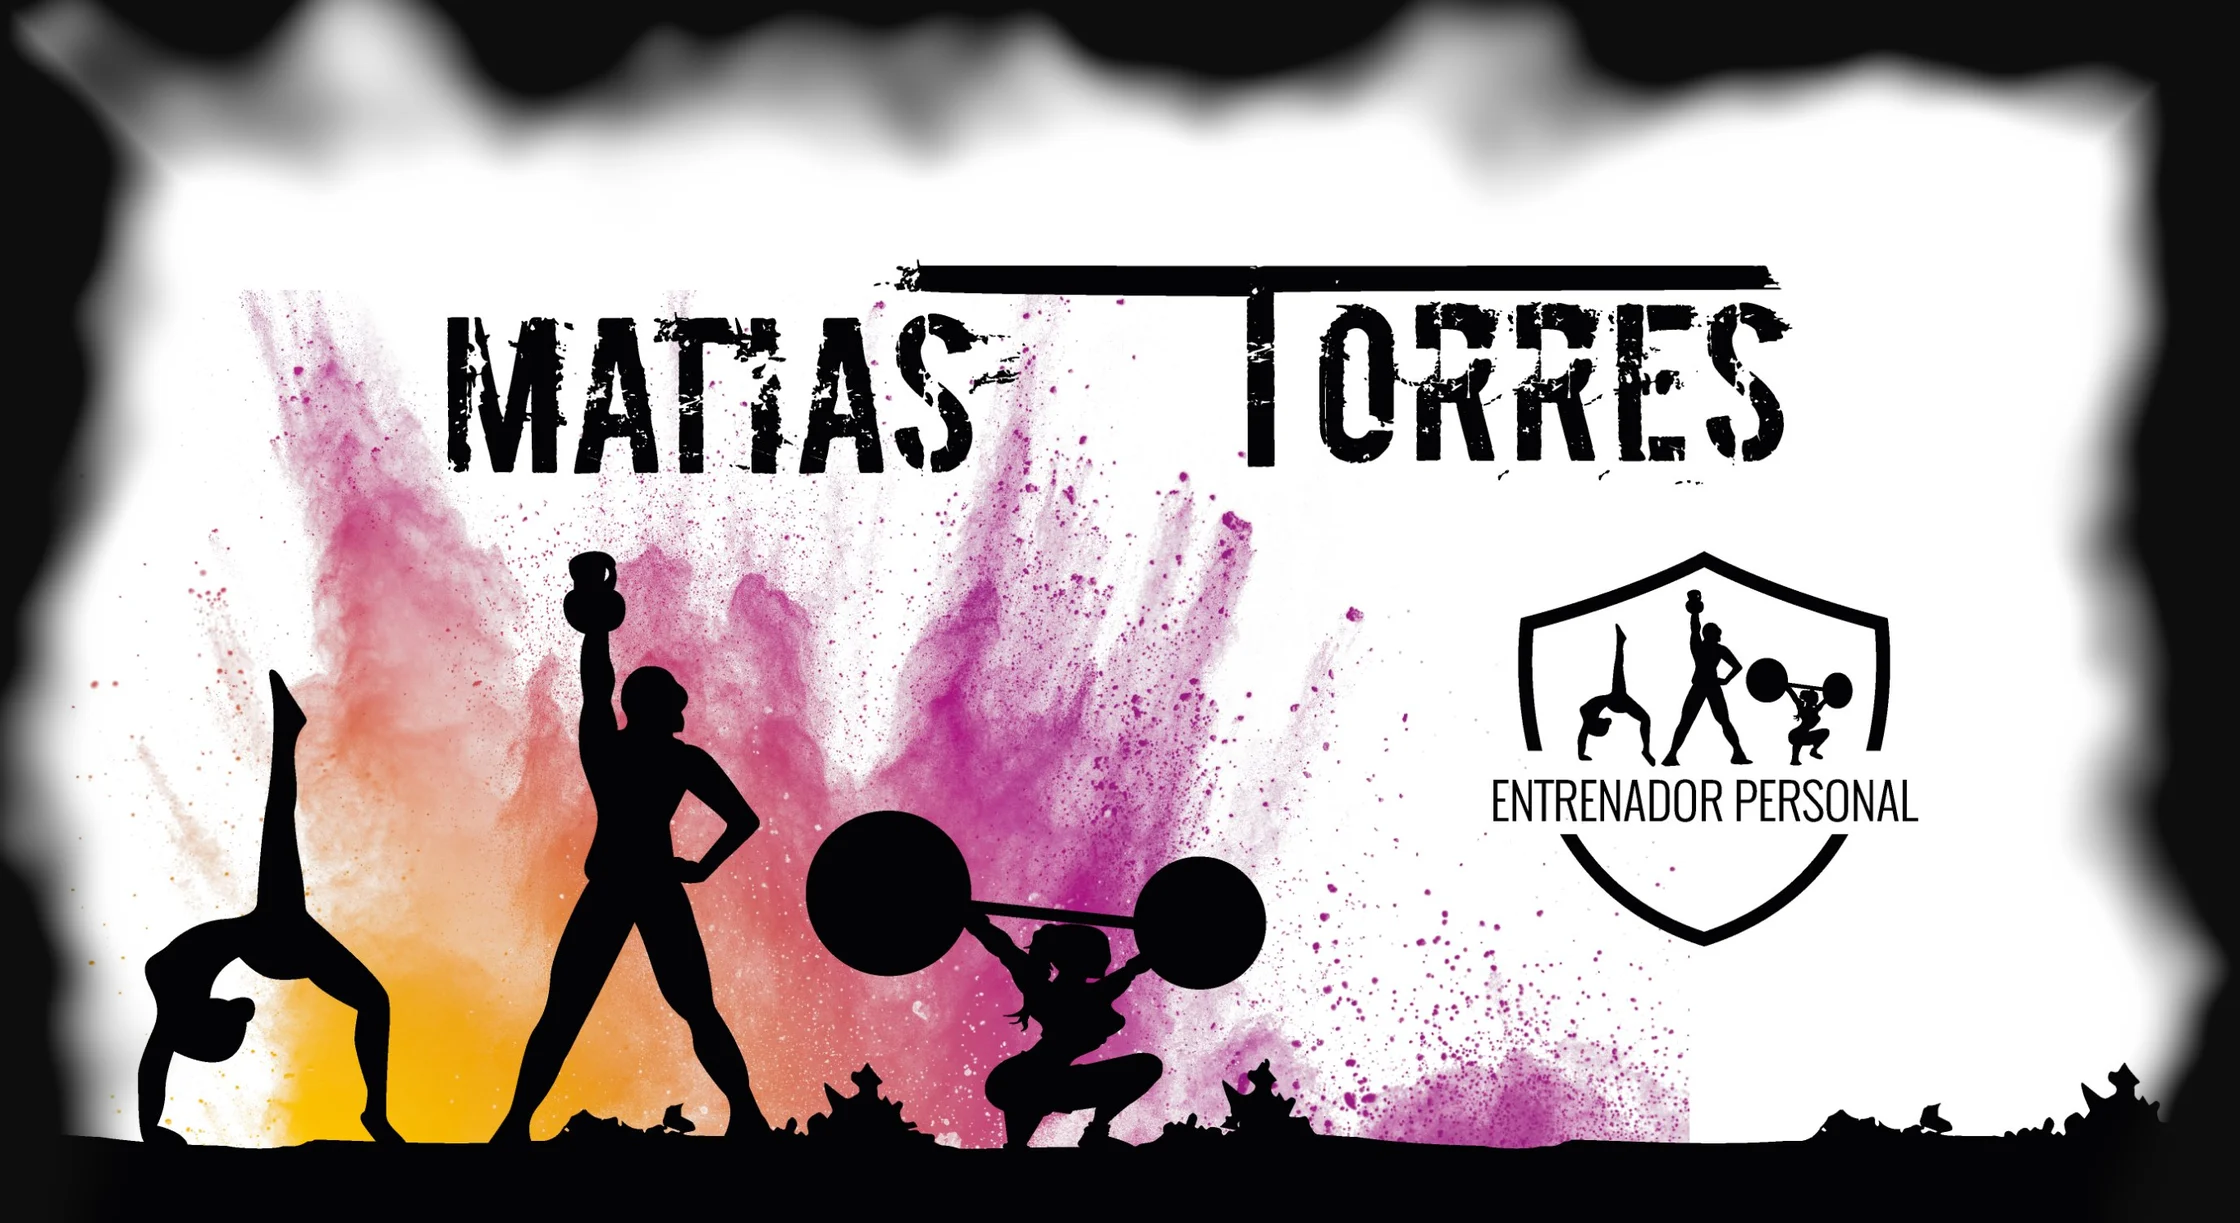
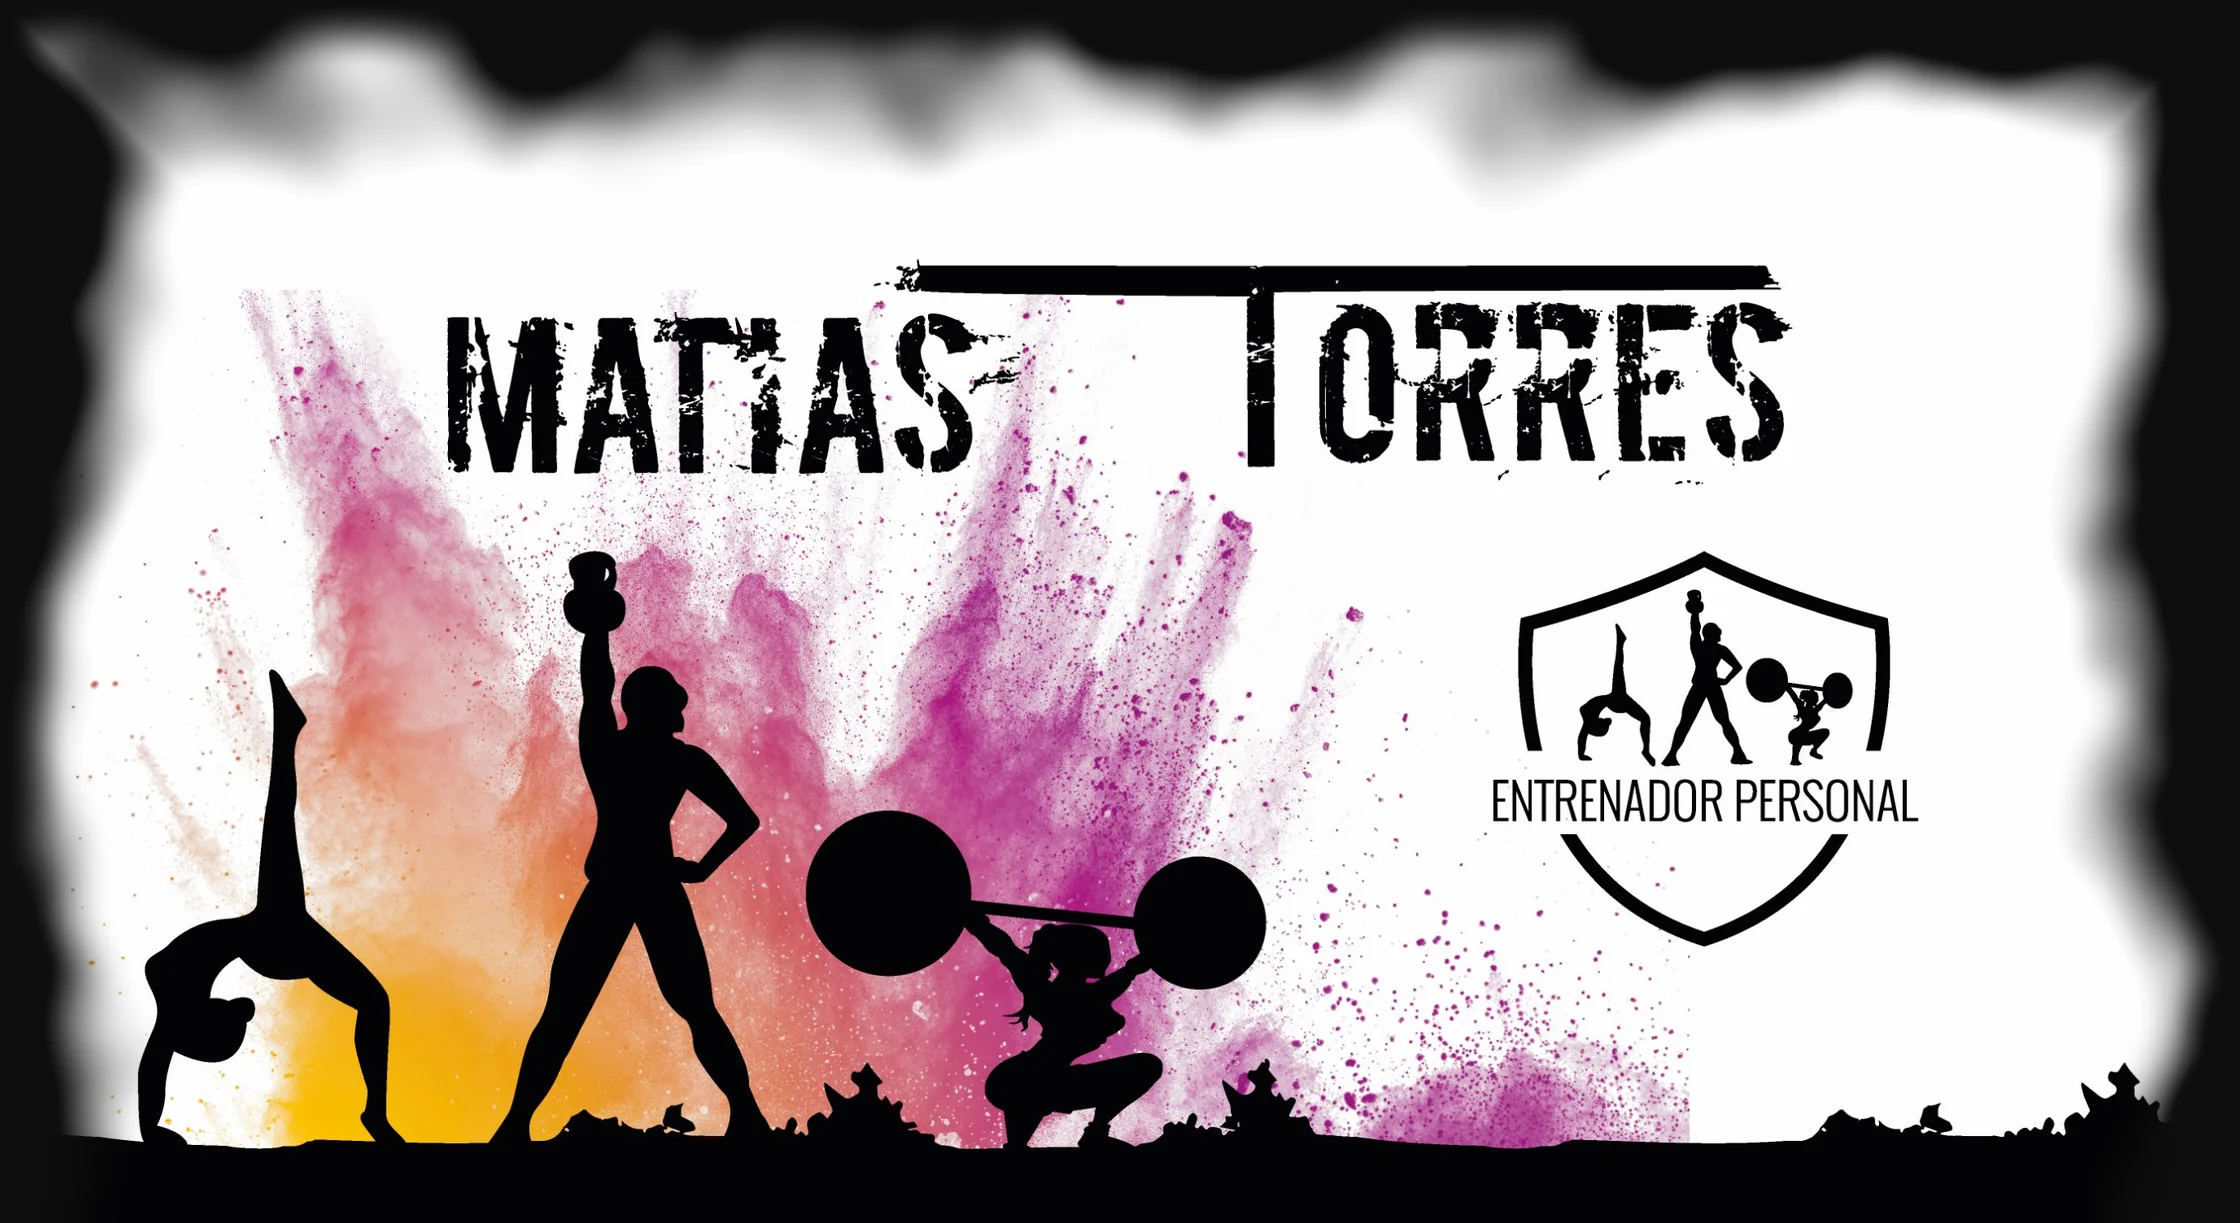
Mural: difuminado sin cortes en los bordes
Claude-Session: https://claude.ai/code/session_01NkzjExiwYDXCqzzxEzx9mz

diff --git a/index.html b/index.html
@@ -1204,7 +1204,7 @@ html,body{overflow-x:clip}
       <p>Lo que nos cuentas, se queda aquí. Tú solo vienes a <strong class="ce-y">ponerte fuerte, perder peso o dejar atrás el dolor</strong>.</p>
     </div>
     <figure class="ce-mural" data-lb>
-      <img src="fotos/mural-w2.webp?v=1" width="2240" height="1223" alt="Mural de 9 por 4 metros a la entrada del centro: Matías Torres, entrenador personal, con tres siluetas entrenando sobre una explosión de color" loading="lazy" decoding="async">
+      <img src="fotos/mural-w2.webp?v=2" width="2240" height="1223" alt="Mural de 9 por 4 metros a la entrada del centro: Matías Torres, entrenador personal, con tres siluetas entrenando sobre una explosión de color" loading="lazy" decoding="async">
       <figcaption class="ce-claim"><span>Dentro de 10 años tendrás el cuerpo que construyas hoy…<br>O el que descuides hoy… Invierte en tu salud.</span></figcaption>
     </figure>
     <p class="ce-hint">Pulsa en una foto para verla en grande.</p>
